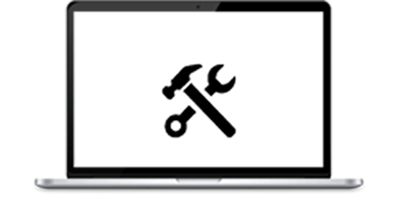
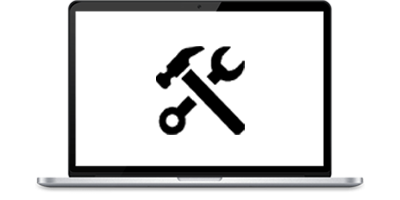
Aligned and adjusted images to better quality

Changed region(s): [[0.06, 0.0, 0.9, 0.96], [0.39, 0.21, 0.63, 0.69]]

diff --git a/index.html b/index.html
@@ -130,7 +130,7 @@
       </div>
 
       <div class="project-3">
-        <div class="macbook-3"><img src="images/macbook_concept.png" alt="#"></a></div>
+        <div class="macbook-3"><img src="images/macbook_conception.png" alt="#"></a></div>
         <div class="project-3-title"><p>Under Conception</p></div>
         <div class="project-3-desc"><p>This project is currently being constructed as we speak.</p></div>
         <button class="see-live-3">See Live</button>
